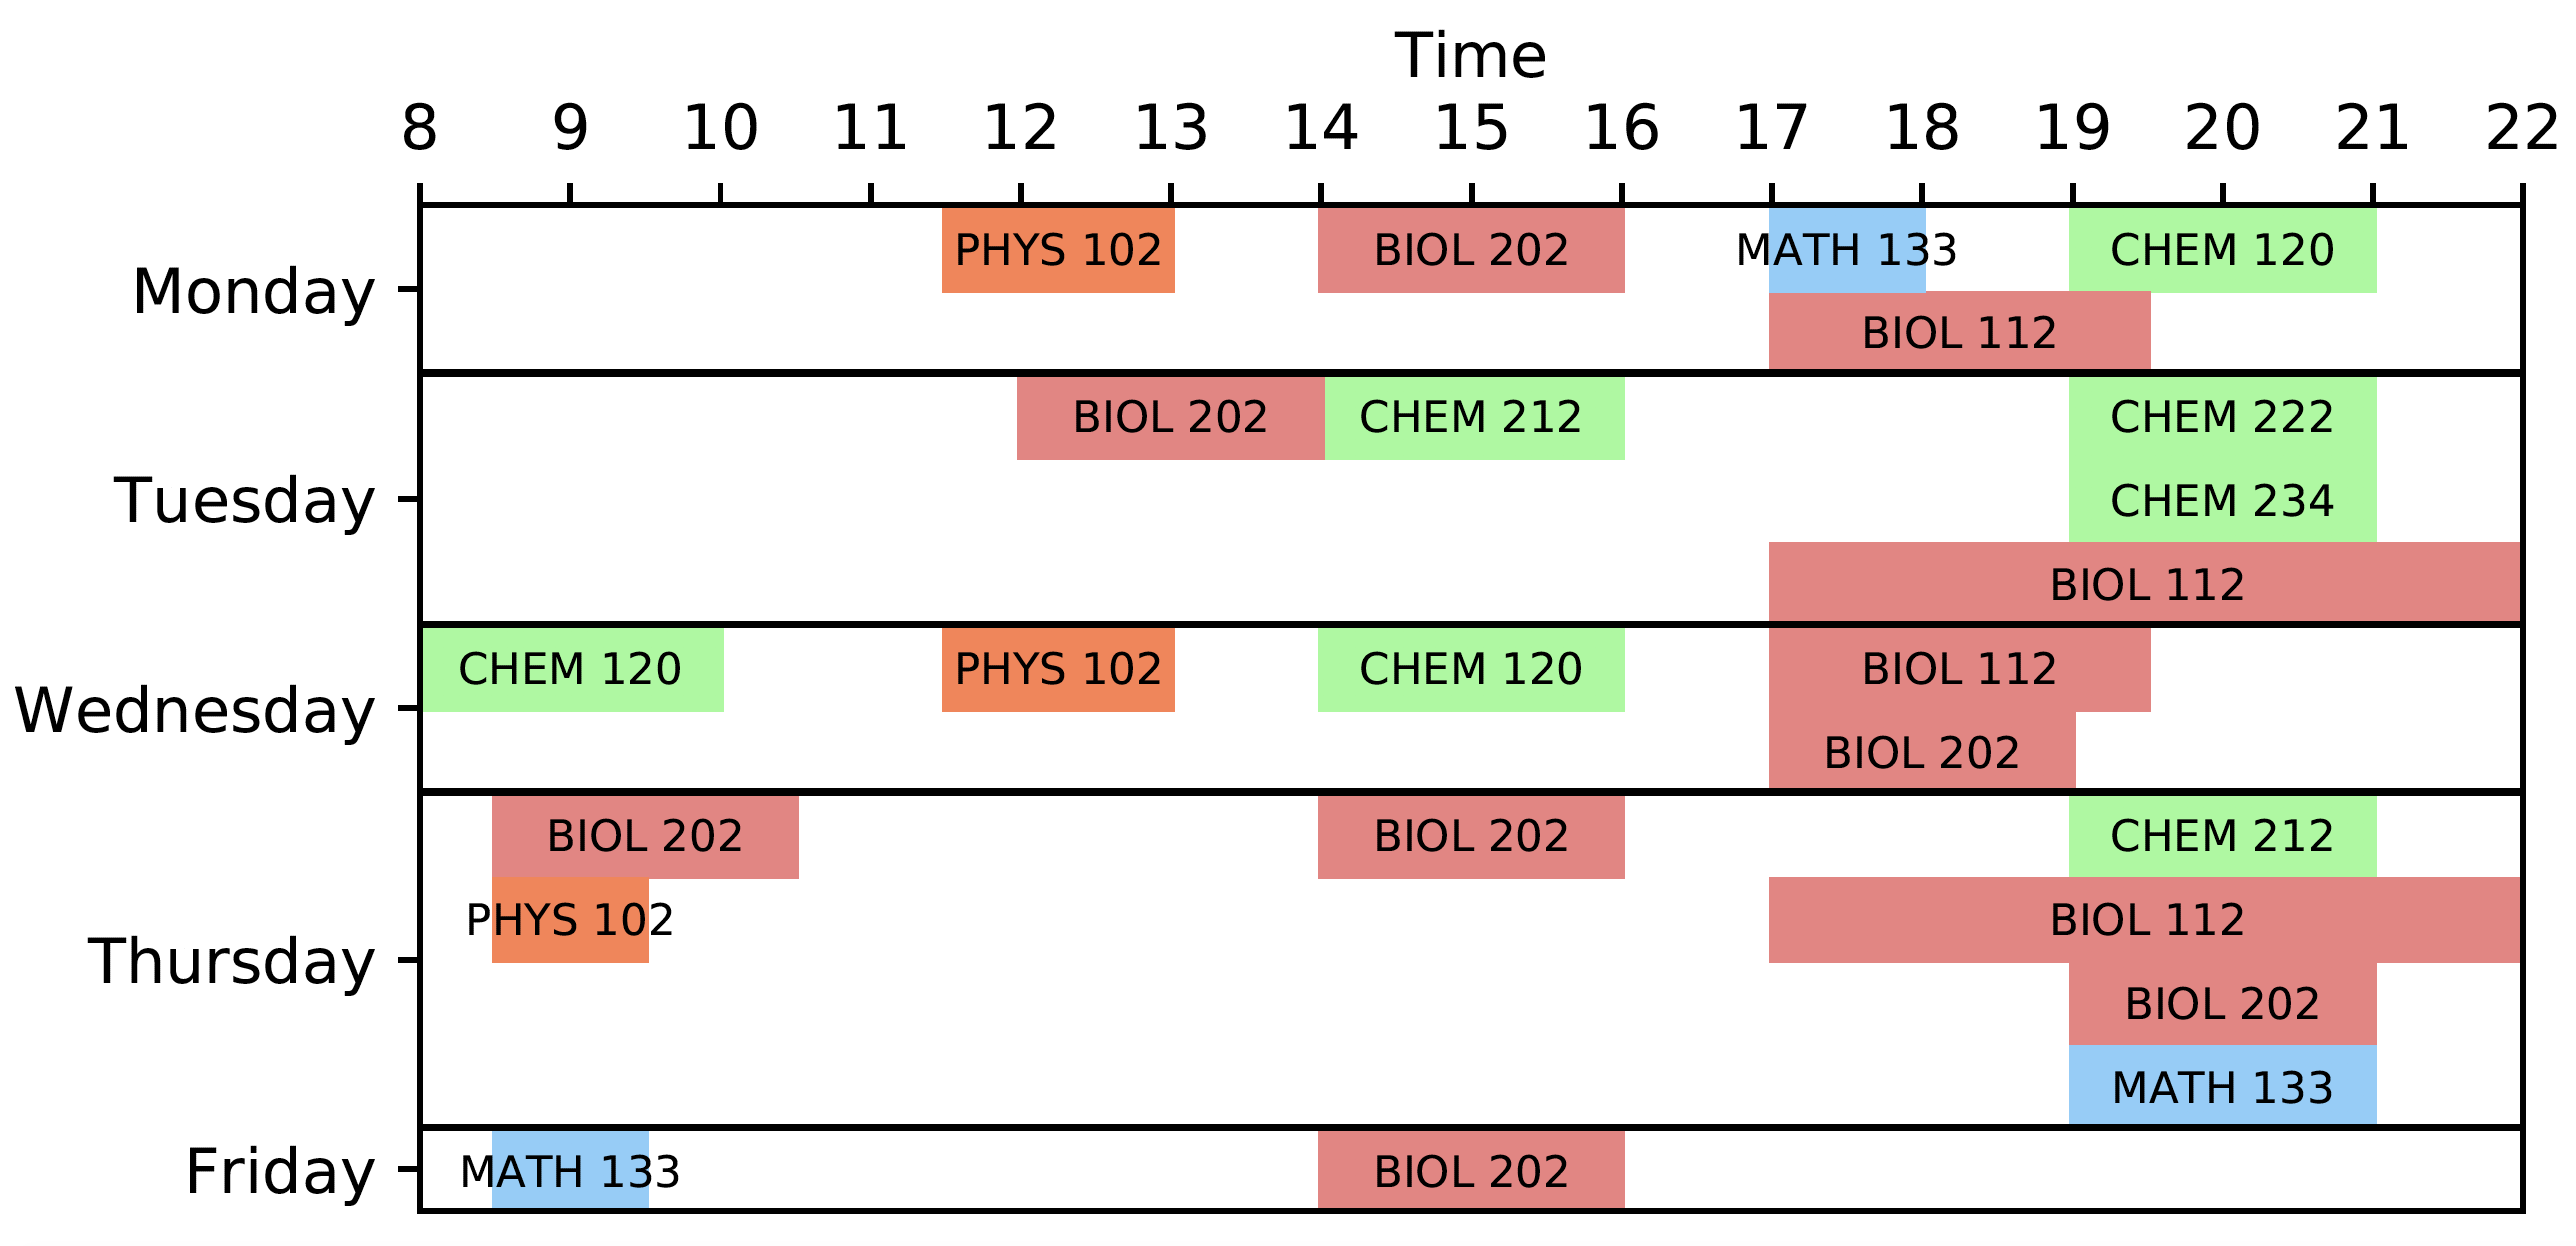
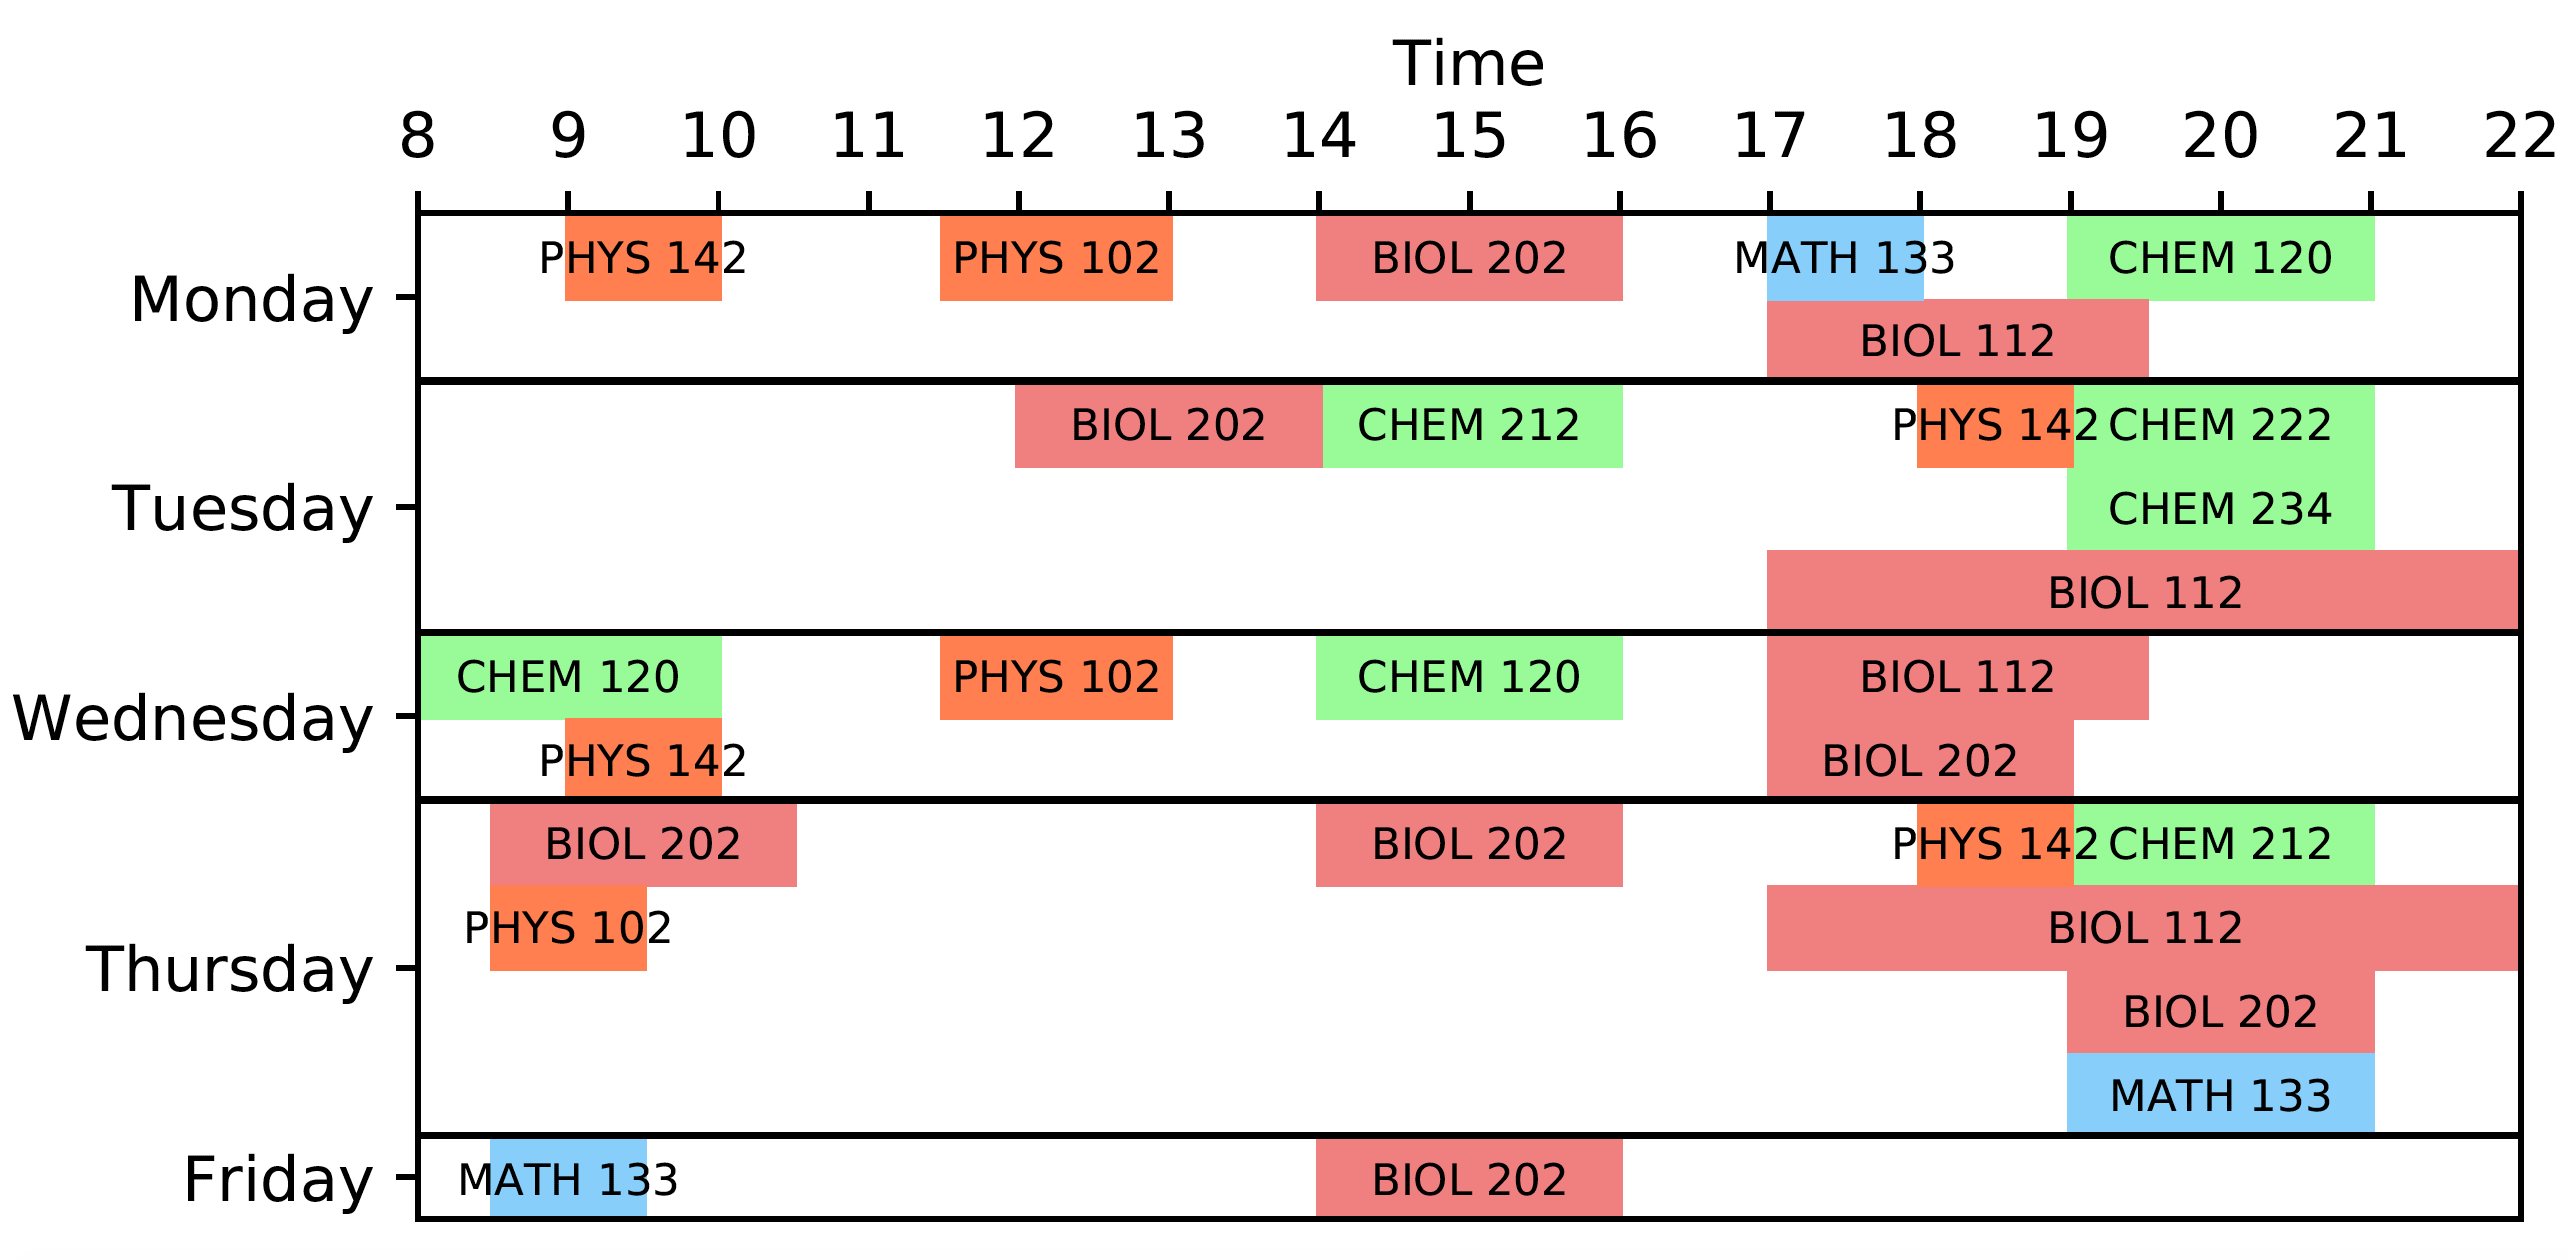
phys 142 schedule added

diff --git a/docs/source/index.rst b/docs/source/index.rst
@@ -23,8 +23,9 @@ Getting started
 
      <iframe width="560" height="315" src="https://www.youtube.com/embed/xZk9bVRPU9c" frameborder="0" allow="accelerometer; autoplay; encrypted-media; gyroscope; picture-in-picture" allowfullscreen></iframe>
 
-In your FRezCa myCourses, you will find information on how to join the Microsoft FRezCa Teams.
-If you are not in FRezCa myCourses, you should contact your course instructor and he/she will be able to invite you!
+(Note that FVirtual Library was taken out, but feel free to use the Virutal Cafe!)
+
+In your FRezCa myCourses, you will find information on how to join the Microsoft FRezCa Teams. If you are not in FRezCa myCourses, you should contact your course instructor and he/she will be able to invite you!
 
 You can find our channel details here: :ref:`channels`.
 
